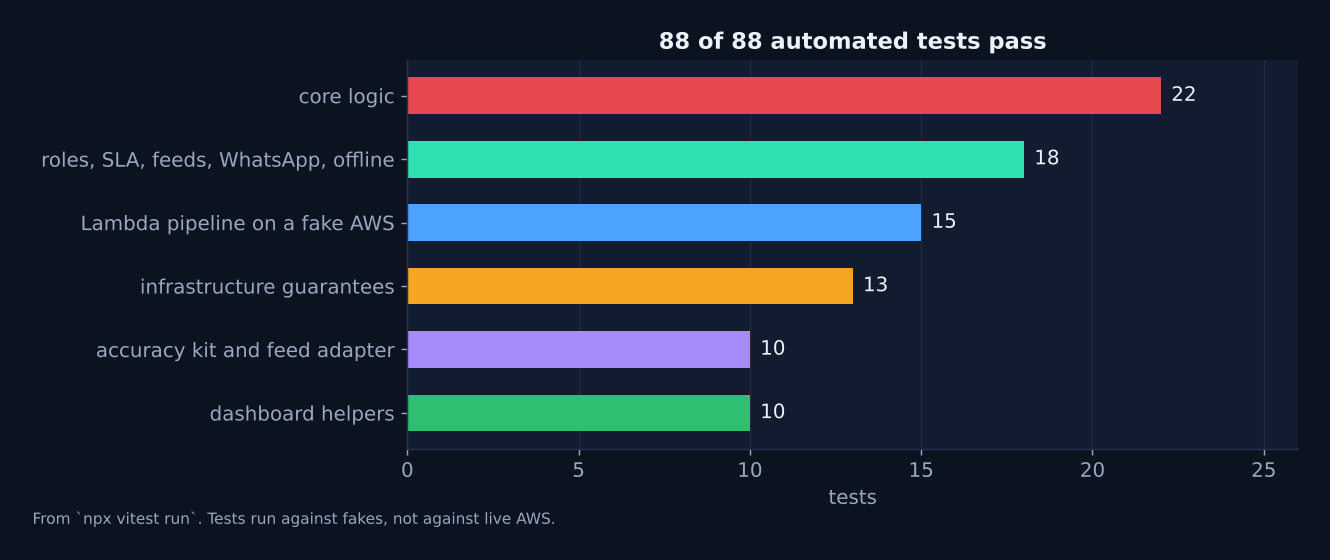
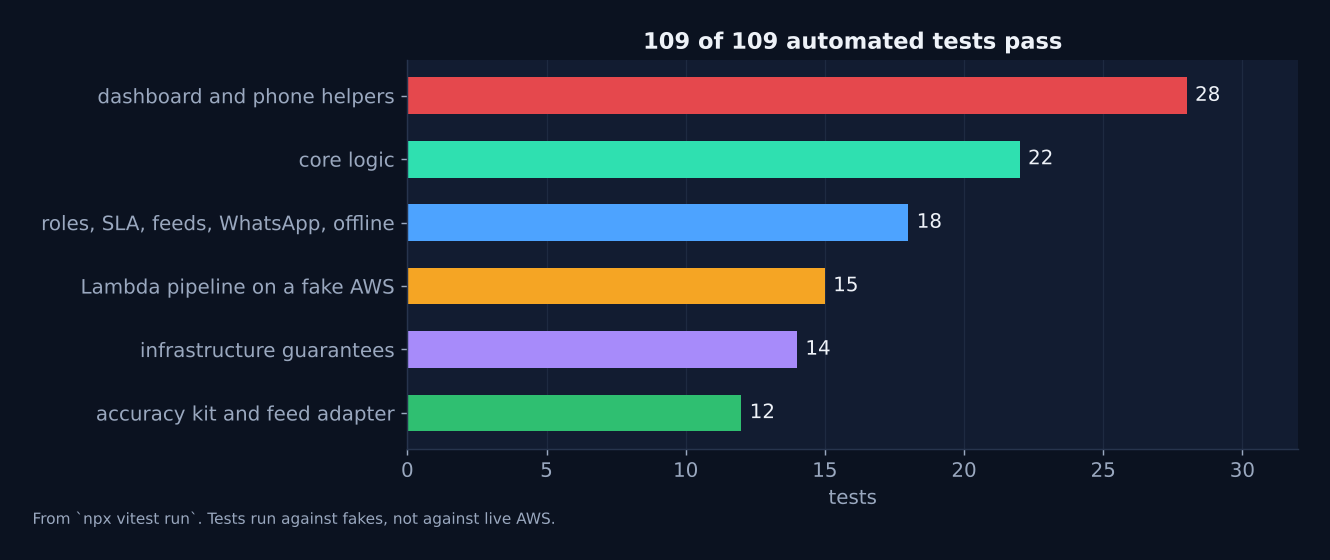
README: document browser tests, new helpers and updated limits; refresh test breakdown (109 unit tests)

diff --git a/scripts/docs-graphs.py b/scripts/docs-graphs.py
@@ -84,7 +84,7 @@ fig.tight_layout(); save(fig, "g-gauges.png", "Simulator output (shared/stations
 
 # 5 ---- tests
 by = collections.Counter(); area = collections.Counter()
-names = {"shared.test.ts": "core logic", "gov.test.ts": "roles, SLA, feeds, WhatsApp, offline", "pipeline.test.ts": "Lambda pipeline on a fake AWS", "stack.test.ts": "infrastructure guarantees", "kit.test.ts": "accuracy kit and feed adapter", "filter.test.ts": "dashboard helpers", "csv.test.ts": "dashboard helpers"}
+names = {"shared.test.ts": "core logic", "gov.test.ts": "roles, SLA, feeds, WhatsApp, offline", "pipeline.test.ts": "Lambda pipeline on a fake AWS", "stack.test.ts": "infrastructure guarantees", "kit.test.ts": "accuracy kit and feed adapter", "filter.test.ts": "dashboard and phone helpers", "csv.test.ts": "dashboard and phone helpers", "queue.test.ts": "dashboard and phone helpers", "pingrule.test.ts": "dashboard and phone helpers", "mfa.test.ts": "dashboard and phone helpers", "villages-import.test.ts": "dashboard and phone helpers"}
 for f in t["files"]: by[names.get(f["file"], f["file"])] += len(f["tests"])
 fig, ax = plt.subplots(figsize=(10, 4))
 items = sorted(by.items(), key=lambda kv: kv[1]); cols = [C["green"], C["violet"], C["amber"], C["blue"], C["teal"], C["red"]][:len(items)]

diff --git a/README.md b/README.md
@@ -8,7 +8,7 @@
 Hindi, Hinglish and dialect voice or text reports become one ranked, de-duplicated rescue queue on a live 3D map. Rescue crews get their own phone page, and nothing waits unnoticed.
 
 [![CI](https://github.com/antrikakashyap/baadhmitra/actions/workflows/ci.yml/badge.svg)](https://github.com/antrikakashyap/baadhmitra/actions/workflows/ci.yml)
-![tests](https://img.shields.io/badge/tests-88%20passing-2fbf71)
+![tests](https://img.shields.io/badge/tests-109%20passing-2fbf71)
 ![AWS](https://img.shields.io/badge/AWS-Lambda%20%C2%B7%20SQS%20%C2%B7%20DynamoDB%20%C2%B7%20Bedrock%20%C2%B7%20Cognito-ff9900)
 ![TypeScript](https://img.shields.io/badge/TypeScript-strict-3178c6)
 ![three.js](https://img.shields.io/badge/3D-three.js-black)
@@ -236,10 +236,10 @@ flowchart LR
 
 ## Tests and evaluation
 
-<p align="center"><img src="docs/assets/g-tests.png" alt="Bar chart of 88 passing tests by area" width="70%"/></p>
+<p align="center"><img src="docs/assets/g-tests.png" alt="Bar chart of 109 passing tests by area" width="70%"/></p>
 
 ```bash
-npm run typecheck && npm test      # 88 tests: core logic, the Lambda pipeline against a fake AWS, roles and audit, WhatsApp signatures, feeds, offline queue, CDK guarantees, accuracy kit
+npm run typecheck && npm test      # 109 tests: core logic, the Lambda pipeline against a fake AWS, roles and audit, WhatsApp signatures, feeds, offline queue, CDK guarantees, accuracy kit
 npm run eval                       # extractor benchmark (add LLM=1 MODEL=<id> to score Bedrock)
 npx cdk synth                      # validates the CloudFormation template
 npm run loadtest -- <api> 200 20 --yes   # load test the public endpoint (use a staging stack)
@@ -253,9 +253,11 @@ npm run docs:data && npm run docs:graphs # regenerate the numbers and graphs in 
 | Core logic (`shared.test.ts`) | 22 | extraction, redaction, scoring, merging, geohash |
 | Roles, SLA, feeds, WhatsApp, offline (`gov.test.ts`) | 18 | dialect words, dismissal, village lookup, signatures, offline queue, overdue and metrics maths |
 | Lambda pipeline (`pipeline.test.ts`) | 15 | the whole flow on a fake AWS: field team flow, role isolation, overdue sweep, rate limit, audit |
-| Infrastructure (`stack.test.ts`) | 13 | four role groups, only five public methods, five-minute sweep, WAF opt-in, alarms, validated feed map, CORS lock-down |
-| Dashboard helpers (`filter.test.ts`, `csv.test.ts`) | 10 | queue search and filters, CSV export with spreadsheet-formula protection |
-| Accuracy kit and feed adapter (`kit.test.ts`) | 10 | CSV parsing, label normalisation, confidence intervals, labeler agreement, foreign gauge feeds mapped without inventing values |
+| Infrastructure (`stack.test.ts`) | 14 | four role groups, only five public methods, five-minute sweep, WAF opt-in, alarms, validated feed map, feed credential, CORS lock-down |
+| Dashboard and phone helpers (`filter`, `csv`, `queue`, `pingrule`, `mfa`, `villages-import`) | 28 | queue search, CSV export with formula protection, single-flight offline outbox, battery-aware crew pings, two-step sign-in enrolment, village import |
+| Accuracy kit and feed adapter (`kit.test.ts`) | 12 | CSV parsing, label normalisation, confidence intervals, labeler agreement, foreign gauge feeds mapped without inventing values |
+
+On top of these, `npm run e2e` runs 8 Playwright browser tests against the built site in demo mode (ranked queue, search and filters, dialogs, surge, and the citizen page keeping a report offline and sending it when the network returns). They run in CI and need no AWS.
 
 What the tests do **not** cover: a live AWS account, real WhatsApp traffic, real phones' GPS, or any real flood message. The pipeline tests run on fakes.
 
@@ -343,9 +345,9 @@ If Bedrock access or the model id is wrong, the system keeps working on the rule
 
 - Transcribe has no Maithili or Bhojpuri model, so Hindi is used; confidence drops on heavy dialect and the review queue catches it. The Bhojpuri/Maithili word list is best effort and needs native-speaker review.
 - WhatsApp needs a Meta business account and approval; the webhook is built and tested but has not talked to the real Meta service.
-- River data is simulated until you configure an official feed (and get permission for it). Village-level placement needs a licensed village dataset (`npm run villages`); the shipped index is empty.
+- River data is simulated until you configure an official feed (and get permission for it). A single API-key header is supported; OAuth or signed requests are not. Village-level placement needs a licensed village dataset (`npm run villages`); the shipped index is empty.
 - Two-step sign-in can be enrolled from the dashboard but is not mandatory and is untested on a live pool; CORS is open by default for demo convenience (`-c corsOrigin=...` restricts it); no independent penetration test. See `docs/SECURITY.md` for the full list.
 - SMS delivery in India requires DLT registration with SNS; email alerts work immediately.
 - The benchmark set is author-written; real accuracy is measured in a pilot (`docs/PILOT.md`).
-- Crew location is only as good as the phone and the crew's choice to share it. The overdue thresholds (15/30 and 30/60 minutes, 60/120 for a silent crew) are starting values to agree with the control room, not standards.
+- Crew location is only as good as the phone and the crew's choice to share it. The battery-saving ping rule (about every 25 s when moving, every 3 min when still) has not been tried on real phones. The overdue thresholds (15/30 and 30/60 minutes, 60/120 for a silent crew) are starting values to agree with the control room, not standards.
 - Next: resource-aware team suggestions, IVR / missed-call intake, district-boundary heatmap, a list screen for unplaced reports.
